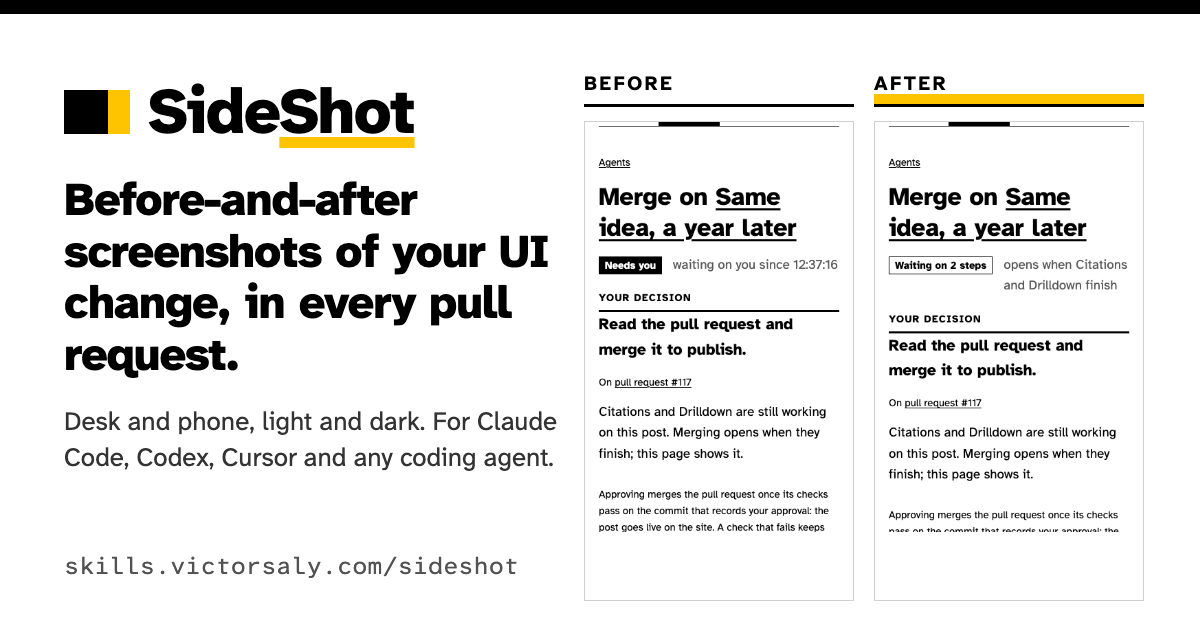
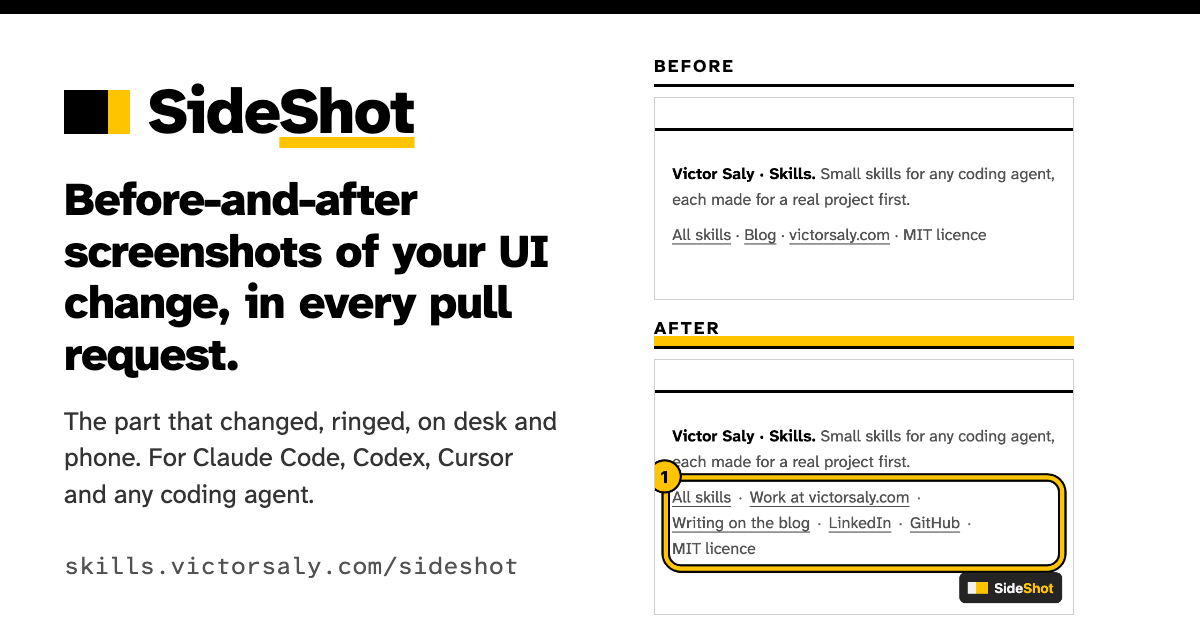
feat: the page shows the table SideShot wrote into this site's own pull request, the part and its ring
The example table was six whole-screen pictures of agentic-blog #151 at 1x, cut
through a diagram at the foot and with nothing marked: what SideShot pictured
before 0.5.5, and the opposite of the hunk below it that says pictures are cut to
the part and marked. The caption even said the phone pair was cropped by the page.

Now the table is the one SideShot wrote into skills #3, picture for picture: this
page's footer before and after, on a desk and a phone, each the part itself with
the change ringed and numbered, and the note SideShot wrote under it. The page
crops nothing. The share card is drawn from the same two phone pictures, stacked,
since the footer is wide and short. Each new picture carries its origin in its PNG
text. DESIGN.md and PRODUCT.md say where the evidence now comes from.

diff --git a/DESIGN.md b/DESIGN.md
@@ -264,7 +264,7 @@ Each item in a hunk is an added diff line: a 2.4rem marigold gutter carrying a m
 - **Tabs (SideShot):** Conversation, Files changed (with an outline count), Merge, in body type over a hairline; hover draws a light rule underneath; the current tab is bold with a strong marigold underline. The tabs are in-page anchors.
 
 ### Before/After Table (SideShot)
-A light-ruled grid with a label column (device and size) and Before and After columns; After carries a marigold bar beneath its head. Screenshots sit on white with a light border and link to the full picture. The phone pair leads at every width; on a desk it is cropped to the change.
+A light-ruled grid with a label column (device and size) and Before and After columns; After carries a marigold bar beneath its head. Screenshots sit on white with a light border and link to the full picture. They are the part SideShot pictured, already cropped to it, so the page crops nothing; the phone pair leads at every width.
 
 ### Skill Brand: SideShot
 - **Mark:** two 44-unit squares side by side, overlapping by half: before in ink, after in marigold (multiplied over the ink on paper, plain on charcoal). Used in the trail, in the comment head and at 30px on the hub.

diff --git a/PRODUCT.md b/PRODUCT.md
@@ -52,8 +52,8 @@ carries its own name and brand; the hub is Victor's name as the maker.
 
 ## Evidence on Hand
 
-- Real before/after pictures from agentic-blog PR #151 and the rings-and-marks example, in
-  victorsaly/sideshot/docs/assets.
+- Real before/after pictures: the table SideShot wrote into this site's own pull request (victorsaly/skills #3,
+  the footer of /sideshot, in public/sideshot/pr3) and the rings-and-marks example in public/sideshot/marks.
 - MIT licence. No install counts, testimonials, users or companies exist yet: do not invent any.
 
 ## Product Principles
